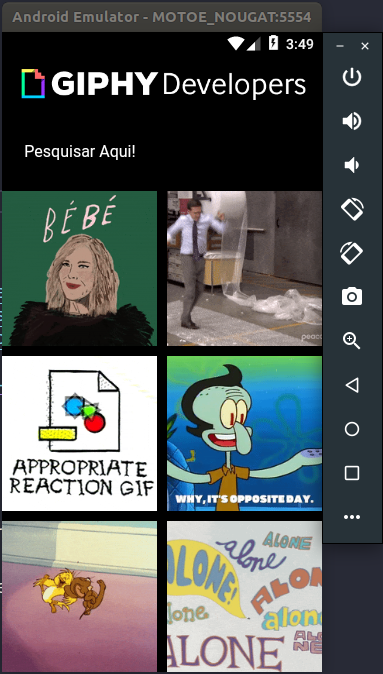
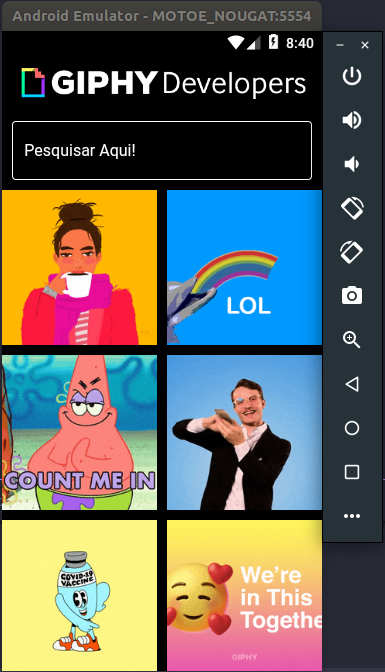
Aplicação Buscardo de Gifs

diff --git a/buscador_gifs/lib/main.dart b/buscador_gifs/lib/main.dart
@@ -28,6 +28,10 @@ class MyApp extends StatelessWidget {
         primarySwatch: Colors.blue,
         visualDensity: VisualDensity.adaptivePlatformDensity,
         hintColor: Colors.white,
+        inputDecorationTheme: InputDecorationTheme(
+          enabledBorder:
+              OutlineInputBorder(borderSide: BorderSide(color: Colors.white)),
+        ),
       ),
       home: HomePage(
         title: 'Home Page',
